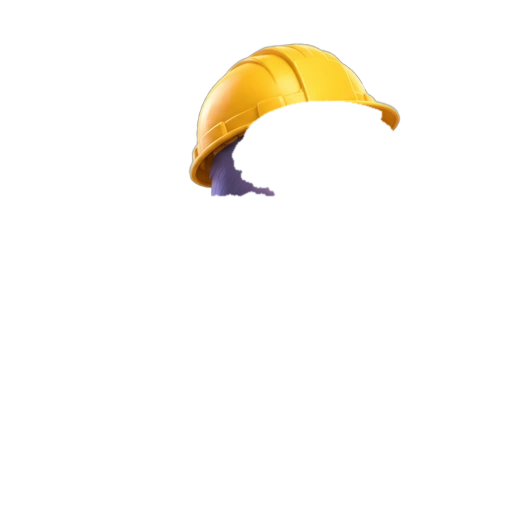
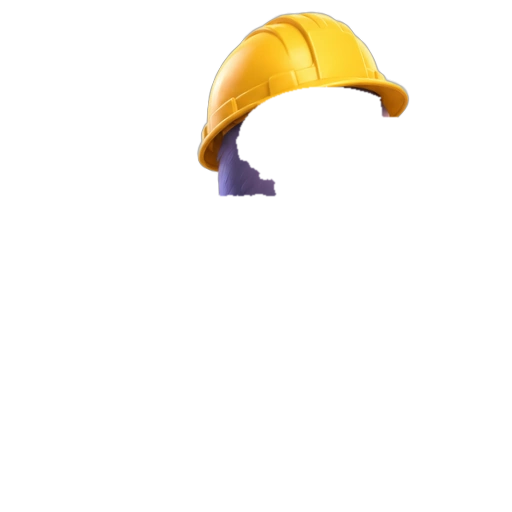
fix: align hats to lower body, enlarge pigeon stage, remove neck rarity overlay

Changed region(s): [[0.3438, 0.0, 0.8125, 0.4062]]

diff --git a/src/ui.tsx b/src/ui.tsx
@@ -123,7 +123,7 @@ export const PIGEON_SKIN_COLORS: Record<string, string> = {
   "iridescent-oil-slick": "#5e5a67", "skin-18": "#5e5a67", "18": "#5e5a67",
 };
 
-const ASSET_V = "?v=13";
+const ASSET_V = "?v=14";
 
 export function resolveSkinSrc(skin?: string | null): string {
   if (!skin || skin === "common" || skin === "default") {
@@ -432,17 +432,6 @@ function Pigeon({
                 }
               }}
             />
-
-            {/* Слой шеи (z-index: 15, для common не выводится) */}
-            {raritySlug !== "common" && (
-              <img
-                key={`neck-${raritySlug}`}
-                src={`/assets/pigeon/neck-${raritySlug}.webp`}
-                alt={`Шея: ${rarity[rarityIndex]}`}
-                className="pigeon-layer layer-neck"
-                onError={() => setImgError(true)}
-              />
-            )}
 
             {/* Слой обуви (z-index: 20, 18 вариантов) */}
             {resolveShoesSrc(shoesTrait) && (
@@ -1157,19 +1146,6 @@ export default function App() {
                 )}
               </div>
               <div className="dev-preview-controls">
-                <label>
-                  <span>Шея:</span>
-                  <select
-                    value={activeRarity}
-                    onChange={(e) => setPreviewRarity(Number(e.target.value))}
-                  >
-                    {RARITY_SLUGS.map((slug, idx) => (
-                      <option key={slug} value={idx}>
-                        {rarity[idx]} ({slug})
-                      </option>
-                    ))}
-                  </select>
-                </label>
                 <label>
                   <span>Взгляд:</span>
                   <select

diff --git a/src/style.css b/src/style.css
@@ -398,7 +398,7 @@ button:disabled {
   --rarity: #aeb5c2;
   position: relative;
   flex: 1 0 auto;
-  min-height: 280px;
+  min-height: 350px;
   width: 100%;
   max-width: 100%;
   display: flex;
@@ -590,8 +590,8 @@ button:disabled {
 .pigeon-layers {
   position: relative;
   z-index: 6;
-  width: auto;
-  height: min(78vw, 290px, 100%);
+  width: min(86vw, 350px);
+  height: min(86vw, 350px);
   max-height: 100%;
   max-width: 100%;
   aspect-ratio: 1 / 1;
@@ -1702,17 +1702,17 @@ button:disabled {
 
 @media (max-height: 860px) {
   .pigeon-stage-container {
-    min-height: 268px;
+    min-height: 315px;
   }
   .pigeon-layers {
-    width: min(68vw, 240px);
-    height: min(68vw, 240px);
+    width: min(82vw, 310px);
+    height: min(82vw, 310px);
   }
 }
 
 @media (max-height: 760px) {
   .pigeon-stage-container {
-    min-height: 244px;
+    min-height: 285px;
   }
   .app {
     padding-top: calc(6px + env(safe-area-inset-top, 0px));
@@ -1733,8 +1733,8 @@ button:disabled {
     padding-bottom: 24px;
   }
   .pigeon-layers {
-    width: min(64vw, 220px);
-    height: min(64vw, 220px);
+    width: min(78vw, 280px);
+    height: min(78vw, 280px);
   }
   .circular-podium {
     bottom: 14px;

diff --git a/scripts/build-pigeon-assets.py b/scripts/build-pigeon-assets.py
@@ -131,30 +131,40 @@ def align_to_reference_ecc(
         return cv2.resize(src_rgba, TARGET_SIZE, interpolation=cv2.INTER_LINEAR)
 
     if mask_mode == "lower_body":
-        # Игнорируем верхнюю шапку при оценке масштаба и центра
-        y_ref_cut = int(ys_ref.min() + (ys_ref.max() - ys_ref.min()) * 0.35)
-        y_src_cut = int(ys_src.min() + (ys_src.max() - ys_src.min()) * 0.35)
-        m_ref = (ref_alpha > 0.5) & (np.arange(TARGET_SIZE[1])[:, None] >= y_ref_cut)
-        m_src = (src_alpha > 0.5) & (np.arange(src_alpha.shape[0])[:, None] >= y_src_cut)
+        # Игнорируем верхнюю шапку: оцениваем масштаб по ширине туловища (хвост-грудь) и якоримся по низу лап
+        y_bot_ref = int(ys_ref.max())
+        y_bot_src = int(ys_src.max())
+        # Нижние ~60% тела эталона (ниже головы/шапки) имеют инвариантную ширину туловища
+        m_ref = (ref_alpha > 0.5) & (np.arange(TARGET_SIZE[1])[:, None] >= int(ys_ref.min() + (y_bot_ref - ys_ref.min()) * 0.42))
         yr, xr = np.where(m_ref)
+        w_ref = max(1, int(xr.max() - xr.min()))
+
+        # В исходнике берём нижнюю половину от y_bot_src вверх на ~0.65 ширины кадра (без шапки)
+        y_cut_src = max(0, y_bot_src - int(src_alpha.shape[0] * 0.48))
+        m_src = (src_alpha > 0.5) & (np.arange(src_alpha.shape[0])[:, None] >= y_cut_src)
         ys, xs = np.where(m_src)
-        h_ref = max(1, int(yr.max() - yr.min()))
-        h_src = max(1, int(ys.max() - ys.min()))
-        scale_init = h_ref / h_src
-        cx_ref, cy_ref = float(xr.mean()), float(yr.mean())
-        cx_src, cy_src = float(xs.mean()), float(ys.mean())
+        w_src = max(1, int(xs.max() - xs.min()))
+
+        scale_init = w_ref / w_src
+        cx_ref = float(xr.mean())
+        cx_src = float(xs.mean())
+        inv_s = 1.0 / scale_init
+        # Якорим низ лап (y_bot_src <-> y_bot_ref) и горизонтальный центр тела
+        M = np.array([
+            [inv_s, 0.0, cx_src - inv_s * cx_ref],
+            [0.0, inv_s, float(y_bot_src) - inv_s * float(y_bot_ref)],
+        ], dtype=np.float32)
     else:
         h_ref = max(1, int(ys_ref.max() - ys_ref.min()))
         h_src = max(1, int(ys_src.max() - ys_src.min()))
         scale_init = h_ref / h_src
         cx_ref, cy_ref = float(xs_ref.mean()), float(ys_ref.mean())
         cx_src, cy_src = float(xs_src.mean()), float(ys_src.mean())
-
-    inv_s = 1.0 / scale_init
-    M = np.array([
-        [inv_s, 0.0, cx_src - inv_s * cx_ref],
-        [0.0, inv_s, cy_src - inv_s * cy_ref],
-    ], dtype=np.float32)
+        inv_s = 1.0 / scale_init
+        M = np.array([
+            [inv_s, 0.0, cx_src - inv_s * cx_ref],
+            [0.0, inv_s, cy_src - inv_s * cy_ref],
+        ], dtype=np.float32)
 
     tmpl = cv2.GaussianBlur(ref_alpha, (7, 7), 1.5)
     inp = cv2.GaussianBlur(src_alpha, (7, 7), 1.5)
@@ -165,7 +175,7 @@ def align_to_reference_ecc(
         input_mask[45:370, :] = 255
     elif mask_mode == "lower_body":
         input_mask = np.zeros(TARGET_SIZE, dtype=np.uint8)
-        input_mask[190:440, :] = 255
+        input_mask[155:476, :] = 255
     elif mask_mode == "head_and_feet":
         input_mask = np.zeros(TARGET_SIZE, dtype=np.uint8)
         input_mask[45:175, :] = 255
@@ -432,17 +442,19 @@ def extract_accessory_diff(
     elif slot == "hats":
         # Изолируем головной убор сверху: мягко убираем эллиптическую область лица (глаза/клюв), без прямых углов
         y_hat_max = y_min_ref + int(h_ref * 0.36)
-        cy_face = y_min_ref + int(h_ref * 0.24)
+        cy_face = y_min_ref + int(h_ref * 0.23)
         cx_face = int(xs_ref.mean() + (xs_ref.max() - xs_ref.min()) * 0.14)
-        rx_face = max(1, int((xs_ref.max() - xs_ref.min()) * 0.24))
-        ry_face = max(1, int(h_ref * 0.10))
+        rx_face = max(1, int((xs_ref.max() - xs_ref.min()) * 0.25))
+        ry_face = max(1, int(h_ref * 0.12))
         is_face_ellipse = (((x_grid - cx_face) / rx_face) ** 2 + ((y_grid - cy_face) / ry_face) ** 2) <= 1.0
         is_face_area = ref_body & is_face_ellipse
+        # Убираем утечку клюва и подбородка справа под глазами
+        is_beak_chin = (x_grid >= int(xs_ref.mean())) & (y_grid >= y_min_ref + int(h_ref * 0.18))
         is_head_skin = ref_body & (diff < 45.0) & (y_grid >= y_min_ref + int(h_ref * 0.05))
-        raw_hat = (alpha_src > 40) & (y_grid <= y_hat_max) & ((~ref_body) | (diff > 32.0)) & (~is_face_area) & (~is_head_skin)
+        raw_hat = (alpha_src > 40) & (y_grid <= y_hat_max) & ((~ref_body) | (diff > 32.0)) & (~is_face_area) & (~is_beak_chin) & (~is_head_skin)
         opened = cv2.morphologyEx(raw_hat.astype(np.uint8), cv2.MORPH_OPEN, cv2.getStructuringElement(cv2.MORPH_ELLIPSE, (3, 3)))
         closed = cv2.morphologyEx(opened, cv2.MORPH_CLOSE, cv2.getStructuringElement(cv2.MORPH_ELLIPSE, (9, 9))) > 0
-        closed[is_face_area] = False
+        closed[is_face_area | is_beak_chin] = False
         num_l, labels, stats, centroids = cv2.connectedComponentsWithStats(closed.astype(np.uint8))
         keep = np.zeros_like(closed)
         if num_l > 1:
